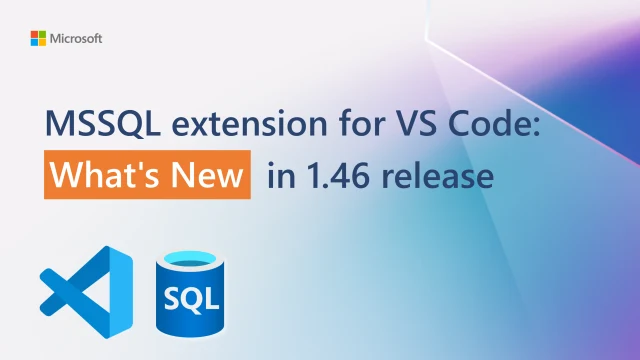
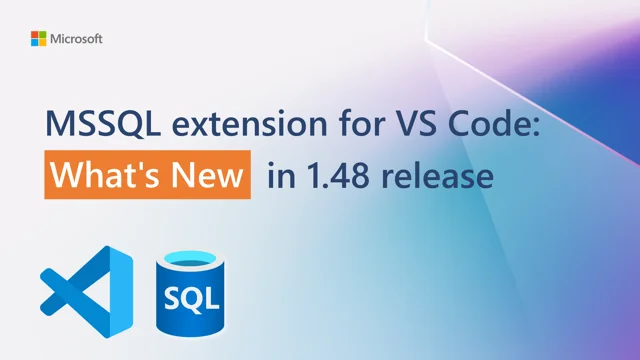
Add the Query Performance Dashboard to Explore Features and update the 1.48 video card

diff --git a/extensions/mssql/src/webviews/pages/Overview/walkthroughContent.ts b/extensions/mssql/src/webviews/pages/Overview/walkthroughContent.ts
@@ -32,6 +32,7 @@ const featureImages: Partial<Record<string, string>> = {
     editData: require("../../../../images/walkthroughs/features/edit-data.gif"),
     importFlatFile: require("../../../../images/walkthroughs/features/import-data.gif"),
     queryEditor: require("../../../../images/walkthroughs/features/query-editor.gif"),
+    queryPerformanceDashboard: require("../../../../images/walkthroughs/features/query-performance-dashboard.gif"),
     queryPlans: require("../../../../images/walkthroughs/features/query-plan.gif"),
     queryProfiler: require("../../../../images/walkthroughs/features/query-profiler.gif"),
     notebooks: require("../../../../images/walkthroughs/features/notebook.gif"),
@@ -66,6 +67,7 @@ const featureDocumentationUrls: Record<string, string> = {
     editData: `${mssqlOverviewDocs}#view-and-edit-data`,
     importFlatFile: "https://aka.ms/vscode-mssql-import-flat-file",
     queryEditor: "https://aka.ms/vscode-mssql-query-editor",
+    queryPerformanceDashboard: "https://aka.ms/vscode-mssql-querystore-docs",
     queryPlans: "https://aka.ms/vscode-mssql-query-plans",
     queryProfiler: "https://aka.ms/vscode-mssql-query-profiler-docs",
     notebooks: "https://aka.ms/vscode-mssql-notebooks",
@@ -97,6 +99,10 @@ export interface WalkthroughStepAction {
 export interface WalkthroughStep {
     id: string;
     title: string;
+    /**
+     * Shown above the description in place of the title, which stays short for the nav.
+     */
+    heading?: string;
     description: string;
     action?: WalkthroughStepAction;
     image?: string;
@@ -117,7 +123,10 @@ export interface Walkthrough {
 
 function getFeatureGallery(): WalkthroughStep[] {
     const loc = locConstants.overview;
-    const groups: { category: string; items: [string, string, string][] }[] = [
+    const groups: {
+        category: string;
+        items: [id: string, title: string, description: string, heading?: string][];
+    }[] = [
         {
             category: loc.featureGroupDesignSchema,
             items: [
@@ -148,6 +157,12 @@ function getFeatureGallery(): WalkthroughStep[] {
             category: loc.featureGroupQueryAnalyze,
             items: [
                 ["queryEditor", loc.featureQueryEditorTitle, loc.featureQueryEditorDescription],
+                [
+                    "queryPerformanceDashboard",
+                    loc.featureQueryPerformanceDashboardTitle,
+                    loc.featureQueryPerformanceDashboardDescription,
+                    loc.featureQueryPerformanceDashboardHeading,
+                ],
                 ["queryPlans", loc.featureQueryPlansTitle, loc.featureQueryPlansDescription],
                 [
                     "queryProfiler",
@@ -187,9 +202,10 @@ function getFeatureGallery(): WalkthroughStep[] {
     ];
 
     return groups.flatMap((group) =>
-        group.items.map(([id, title, description]) => ({
+        group.items.map(([id, title, description, heading]) => ({
             id,
             title,
+            heading,
             description,
             category: group.category,
             image: featureImages[id],

diff --git a/extensions/mssql/src/webviews/common/locConstants.ts b/extensions/mssql/src/webviews/common/locConstants.ts
@@ -5900,6 +5900,13 @@ export class LocConstants {
             ),
             featureQueryEditorTitle: l10n.t("Query Editor"),
             featureQueryEditorDescription: l10n.t("Write T-SQL with IntelliSense."),
+            featureQueryPerformanceDashboardTitle: l10n.t("Query Performance Dashboard"),
+            featureQueryPerformanceDashboardHeading: l10n.t(
+                "Query Performance Dashboard (Preview)",
+            ),
+            featureQueryPerformanceDashboardDescription: l10n.t(
+                "Use the Query Performance Dashboard to find query store insights, analyze performance trends, investigate execution plans, and optimize queries with GitHub Copilot.",
+            ),
             featureQueryPlansTitle: l10n.t("Query Plans"),
             featureQueryPlansDescription: l10n.t(
                 "Analyze execution plans with interactive node navigation",
@@ -6085,8 +6092,10 @@ export class LocConstants {
             learnMoreAboutTemplate: l10n.t("Learn more about this template"),
 
             videos: l10n.t("Videos"),
-            videoWhatsNewTitle: l10n.t("Explore what's new in the MSSQL extension"),
-            videoWhatsNewSubtitle: l10n.t("Agent skills, SQL formatter, and landing page"),
+            videoWhatsNewTitle: l10n.t("Explore what's new in the MSSQL extension (v1.48)"),
+            videoWhatsNewSubtitle: l10n.t(
+                "Local Azure SQL Database container, query performance dashboard, and more",
+            ),
             videoGettingStartedTitle: l10n.t(
                 "Getting started with the MSSQL extension in 5 minutes",
             ),

diff --git a/extensions/mssql/src/webviews/pages/Overview/components/walkthroughDialog.tsx b/extensions/mssql/src/webviews/pages/Overview/components/walkthroughDialog.tsx
@@ -297,7 +297,7 @@ export const WalkthroughDialog = ({ walkthrough, onDismiss }: WalkthroughDialogP
                                 : loc.stepOfTotal(selectedIndex + 1, walkthrough.steps.length)}
                         </Text>
                         <Text as="h2" className={classes.title}>
-                            {step.title}
+                            {step.heading ?? step.title}
                         </Text>
                         <Text className={classes.description}>{step.description}</Text>
                         {step.action && (
@@ -315,7 +315,7 @@ export const WalkthroughDialog = ({ walkthrough, onDismiss }: WalkthroughDialogP
                                     <img
                                         className={classes.stageImage}
                                         src={step.image}
-                                        alt={step.title}
+                                        alt={step.heading ?? step.title}
                                     />
                                 ) : (
                                     <div className={classes.stagePlaceholder}>
